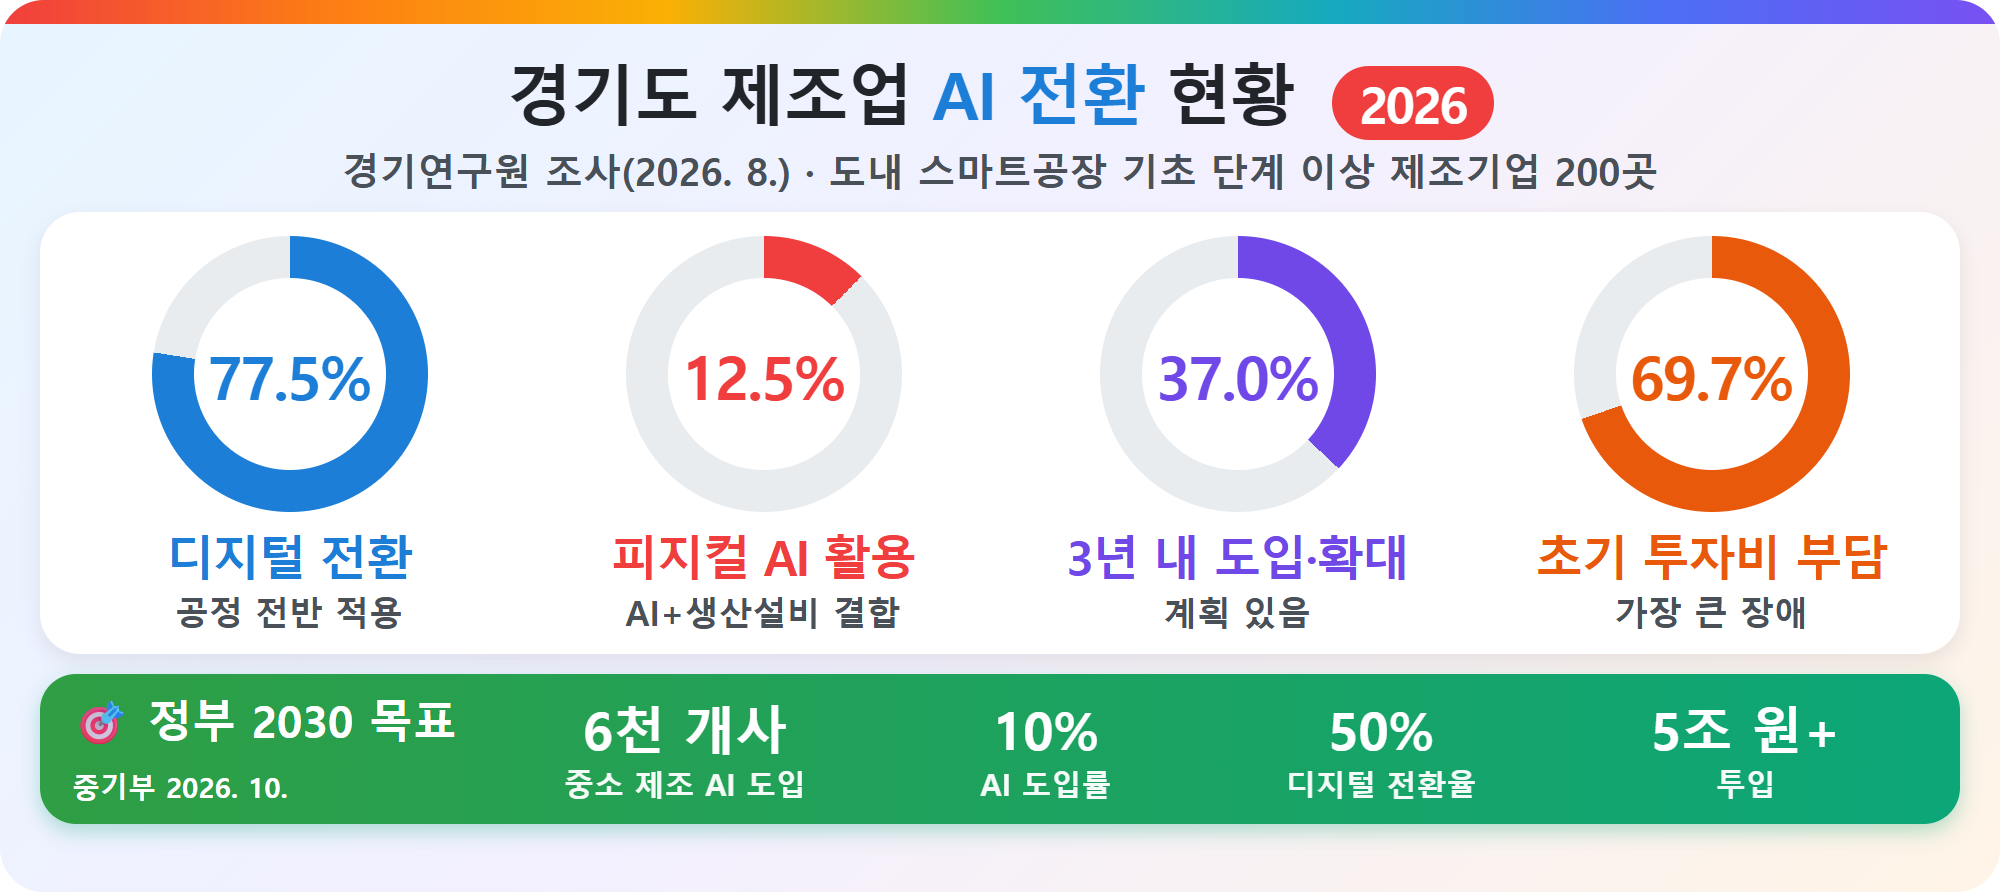
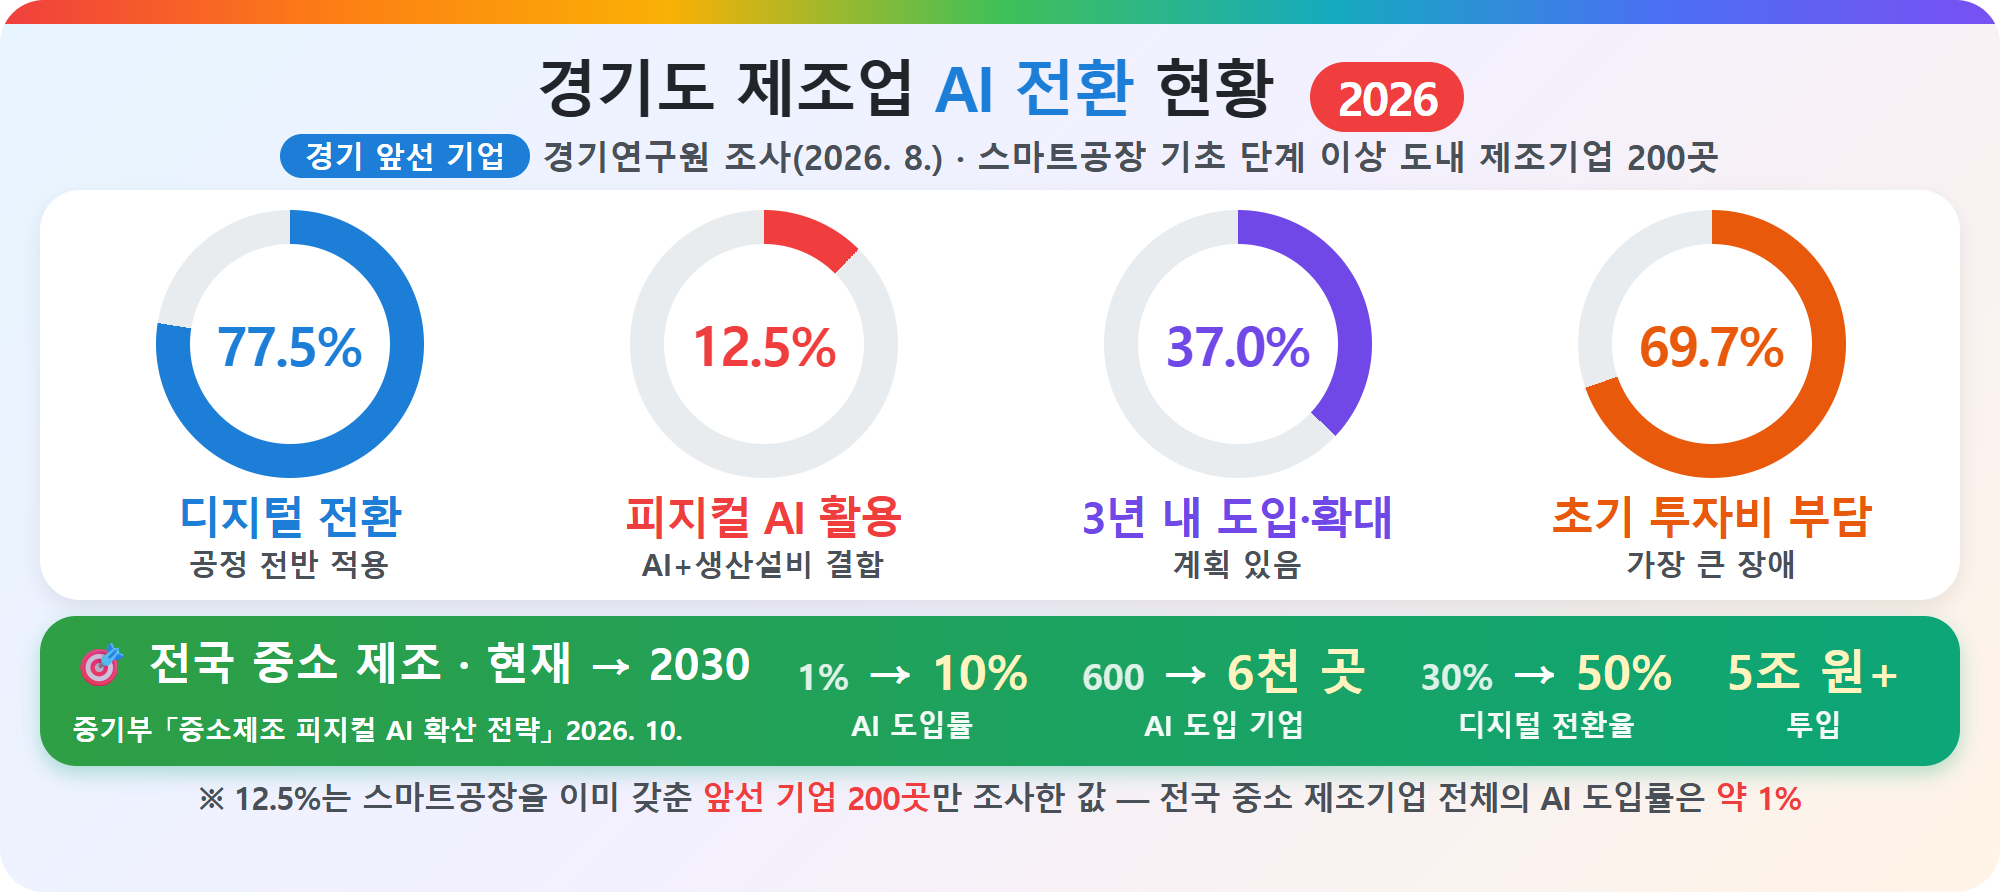
11·181쪽 그림 숫자 바로잡음: 정부 목표를 현재→2030(AI 도입률 1%→10%)으로, 과학관 이용 36.8만 명, AX 지원 컨설팅·PoC 최대 5천만 원

diff --git a/서론_2026/06_11쪽_경기제조AI.html b/서론_2026/06_11쪽_경기제조AI.html
@@ -3,18 +3,19 @@
 .f:before{content:"";position:absolute;left:0;top:0;right:0;height:12px;z-index:3;background:linear-gradient(90deg,#F03E3E,#FD7E14,#FAB005,#40C057,#15AABF,#4C6EF5,#7950F2)}
 .yr{display:inline-block;background:#F03E3E;color:#fff;border-radius:30px;padding:2px 14px;margin-left:8px;font-size:.75em;vertical-align:middle}
 
-.f{width:1000px;height:446px;background:linear-gradient(135deg,#E7F5FF,#F3F0FF 50%,#FFF4E6);padding:24px 20px 12px}
-h1{font-size:33px;color:#212529;letter-spacing:-1px;text-align:center}h1 em{font-style:normal;color:#1C7ED6}
-.sub{text-align:center;font-size:19px;color:#495057;font-weight:700;margin:2px 0 8px}
-.rs{display:flex;justify-content:space-around;background:#fff;border-radius:20px;padding:12px 6px 10px;box-shadow:0 4px 10px rgba(0,0,0,.08)}
-.g{width:225px;text-align:center}.ring{width:138px;height:138px;border-radius:50%;margin:0 auto;display:flex;align-items:center;justify-content:center}
-.in{width:96px;height:96px;border-radius:50%;background:#fff;display:flex;align-items:center;justify-content:center}.in b{font-size:30px;letter-spacing:-1px}
-.t{font-size:24px;font-weight:800;margin-top:6px;letter-spacing:-1px}.d{font-size:17px;color:#495057;font-weight:600}
-.gv{display:flex;align-items:center;gap:10px;margin-top:10px;background:linear-gradient(90deg,#2F9E44,#0CA678);border-radius:18px;color:#fff;padding:8px 16px;box-shadow:0 4px 10px rgba(12,166,120,.3)}
+.f{width:1000px;height:446px;background:linear-gradient(135deg,#E7F5FF,#F3F0FF 50%,#FFF4E6);padding:22px 20px 10px}
+h1{font-size:31px;color:#212529;letter-spacing:-1px;text-align:center}h1 em{font-style:normal;color:#1C7ED6}
+.sub{text-align:center;font-size:17px;color:#495057;font-weight:700;margin:0 0 6px}.tag{display:inline-block;color:#fff;border-radius:20px;padding:1px 12px;font-size:15px;font-weight:800;margin-right:6px;vertical-align:1px}
+.rs{display:flex;justify-content:space-around;background:#fff;border-radius:20px;padding:10px 6px 8px;box-shadow:0 4px 10px rgba(0,0,0,.08)}
+.g{width:225px;text-align:center}.ring{width:134px;height:134px;border-radius:50%;margin:0 auto;display:flex;align-items:center;justify-content:center}
+.in{width:100px;height:100px;border-radius:50%;background:#fff;display:flex;align-items:center;justify-content:center}.in b{font-size:27px;letter-spacing:-1px}
+.t{font-size:22px;font-weight:800;margin-top:4px;letter-spacing:-1px}.d{font-size:15px;color:#495057;font-weight:600}
+.gv{display:flex;align-items:center;gap:10px;margin-top:8px;background:linear-gradient(90deg,#2F9E44,#0CA678);border-radius:18px;color:#fff;padding:8px 16px;box-shadow:0 4px 10px rgba(12,166,120,.3)}
 .gv .h{font-size:22px;font-weight:900;white-space:nowrap}.gv .x{flex:1;display:flex;justify-content:space-around}
-.gv .x div{text-align:center}.gv .x b{display:block;font-size:26px}.gv .x span{font-size:15px;font-weight:700;opacity:.95}
+.gv .x div{text-align:center}.gv .x b{display:block;font-size:24px;white-space:nowrap}.gv .x b i{font-style:normal;font-size:18px;opacity:.85}.gv .x b u{text-decoration:none;color:#FFF3BF}.gv .x span{font-size:14px;font-weight:700;opacity:.95}.nt{font-size:16px;color:#495057;font-weight:700;text-align:center;margin-top:5px;letter-spacing:-.5px}.nt b{color:#F03E3E}
 </style><div class="f"><h1>경기도 제조업 <em>AI 전환</em> 현황 <span class="yr">2026</span></h1>
-<div class="sub">경기연구원 조사(2026. 8.) · 도내 스마트공장 기초 단계 이상 제조기업 200곳</div>
+<div class="sub"><span class="tag" style="background:#1C7ED6">경기 앞선 기업</span>경기연구원 조사(2026. 8.) · 스마트공장 기초 단계 이상 도내 제조기업 200곳</div>
 <div class="rs"><div class="g"><div class="ring" style="background:conic-gradient(#1C7ED6 0 77.5%,#e9ecef 77.5% 100%)"><div class="in"><b style="color:#1C7ED6">77.5%</b></div></div><div class="t" style="color:#1C7ED6">디지털 전환</div><div class="d">공정 전반 적용</div></div><div class="g"><div class="ring" style="background:conic-gradient(#F03E3E 0 12.5%,#e9ecef 12.5% 100%)"><div class="in"><b style="color:#F03E3E">12.5%</b></div></div><div class="t" style="color:#F03E3E">피지컬 AI 활용</div><div class="d">AI+생산설비 결합</div></div><div class="g"><div class="ring" style="background:conic-gradient(#7048E8 0 37.0%,#e9ecef 37.0% 100%)"><div class="in"><b style="color:#7048E8">37.0%</b></div></div><div class="t" style="color:#7048E8">3년 내 도입·확대</div><div class="d">계획 있음</div></div><div class="g"><div class="ring" style="background:conic-gradient(#E8590C 0 69.7%,#e9ecef 69.7% 100%)"><div class="in"><b style="color:#E8590C">69.7%</b></div></div><div class="t" style="color:#E8590C">초기 투자비 부담</div><div class="d">가장 큰 장애</div></div></div>
-<div class="gv"><div class="h">🎯 정부 2030 목표<br><small style="font-size:14px;font-weight:700">중기부 2026. 10.</small></div><div class="x">
-<div><b>6천 개사</b><span>중소 제조 AI 도입</span></div><div><b>10%</b><span>AI 도입률</span></div><div><b>50%</b><span>디지털 전환율</span></div><div><b>5조 원+</b><span>투입</span></div></div></div></div>
+<div class="gv"><div class="h">🎯 전국 중소 제조 · 현재 → 2030<br><small style="font-size:13.5px;font-weight:700">중기부 「중소제조 피지컬 AI 확산 전략」 2026. 10.</small></div><div class="x">
+<div><b><i>1%</i> → <u>10%</u></b><span>AI 도입률</span></div><div><b><i>600</i> → <u>6천 곳</u></b><span>AI 도입 기업</span></div><div><b><i>30%</i> → <u>50%</u></b><span>디지털 전환율</span></div><div><b><u>5조 원+</u></b><span>투입</span></div></div></div>
+<div class="nt">※ 12.5%는 스마트공장을 이미 갖춘 <b>앞선 기업 200곳</b>만 조사한 값 — 전국 중소 제조기업 전체의 AI 도입률은 <b>약 1%</b></div></div>

diff --git a/서론_2026/08_181쪽_AX혁신센터.html b/서론_2026/08_181쪽_AX혁신센터.html
@@ -14,7 +14,7 @@ h1{font-size:36px;color:#fff;background:linear-gradient(90deg,#1C7ED6,#7048E8);b
 .k b{display:block;font-size:32px;letter-spacing:-1px}.k span{font-size:19px;font-weight:700}
 </style><div class="f"><h1>🏢 서울 산업 AX 혁신센터 <span class="yr">2026</span></h1>
 <div class="sub">서울 AI 허브 안 · 중소·중견 제조기업의 AI 전환(AX) 원스톱 지원</div>
-<div class="row"><div class="s"><div class="o" style="background:#1C7ED6">🔍</div><div class="t" style="color:#1C7ED6">AX 진단</div><div class="dd">공정·데이터 현황</div></div><div class="sa">➜</div><div class="s"><div class="o" style="background:#7048E8">🤝</div><div class="t" style="color:#7048E8">기업 매칭</div><div class="dd">수요↔공급 기업</div></div><div class="sa">➜</div><div class="s"><div class="o" style="background:#E8590C">🧪</div><div class="t" style="color:#E8590C">PoC 실증</div><div class="dd">최대 5천만 원</div></div><div class="sa">➜</div><div class="s"><div class="o" style="background:#2F9E44">🏭</div><div class="t" style="color:#2F9E44">현장 적용</div><div class="dd">확산·상시화</div></div></div>
+<div class="row"><div class="s"><div class="o" style="background:#1C7ED6">🔍</div><div class="t" style="color:#1C7ED6">AX 진단</div><div class="dd">공정·데이터 현황</div></div><div class="sa">➜</div><div class="s"><div class="o" style="background:#7048E8">🤝</div><div class="t" style="color:#7048E8">기업 매칭</div><div class="dd">수요↔공급 기업</div></div><div class="sa">➜</div><div class="s"><div class="o" style="background:#E8590C">🧪</div><div class="t" style="color:#E8590C">컨설팅·PoC</div><div class="dd">최대 5천만 원</div></div><div class="sa">➜</div><div class="s"><div class="o" style="background:#2F9E44">🏭</div><div class="t" style="color:#2F9E44">현장 적용</div><div class="dd">확산·상시화</div></div></div>
 <div class="kp"><div class="k" style="background:linear-gradient(135deg,#4C6EF5,#1C7ED6)"><b>2025. 11.</b><span>센터 출범</span></div>
-<div class="k" style="background:linear-gradient(135deg,#F76707,#E8590C)"><b>20개 기업</b><span>2025년 AX 실증 완료</span></div>
+<div class="k" style="background:linear-gradient(135deg,#F76707,#E8590C)"><b>20곳</b><span>2025년 AX 실증 완료</span></div>
 <div class="k" style="background:linear-gradient(135deg,#40C057,#2F9E44)"><b>2026년~</b><span>지원사업 상시화</span></div></div></div>

diff --git a/서론_2026/10_181쪽_피지컬AI벨트.html b/서론_2026/10_181쪽_피지컬AI벨트.html
@@ -22,5 +22,5 @@ h1{font-size:35px;text-align:center;color:#fff;background:linear-gradient(90deg,
 <div class="hub" style="background:linear-gradient(160deg,#F76707,#D6336C)"><div class="n">수서<span class="r">실증 거점</span></div><ul>
 <li>· 서울로봇테크센터<br>&nbsp;&nbsp;(2030년 완공 예정)</li><li>· 로봇산업 특정개발<br>&nbsp;&nbsp;진흥지구 지정 추진</li></ul></div></div>
 <div class="bt"><div class="k" style="border-color:#2F9E44"><b style="color:#2F9E44">47건</b><span>로봇플러스 테스트필드 PoC</span></div>
-<div class="k" style="border-color:#1C7ED6"><b style="color:#1C7ED6">44.5만 명</b><span>로봇인공지능과학관(창동) 방문</span></div>
-<div class="k" style="border-color:#F03E3E"><b style="color:#F03E3E">1,500억 원</b><span>2026 피지컬 AI 펀드</span></div></div></div>
+<div class="k" style="border-color:#1C7ED6"><b style="color:#1C7ED6">36.8만 명</b><span>창동 과학관 2년 누적 이용</span></div>
+<div class="k" style="border-color:#F03E3E"><b style="color:#F03E3E">1,500억 원</b><span>피지컬 AI 펀드(2026 신설)</span></div></div></div>
